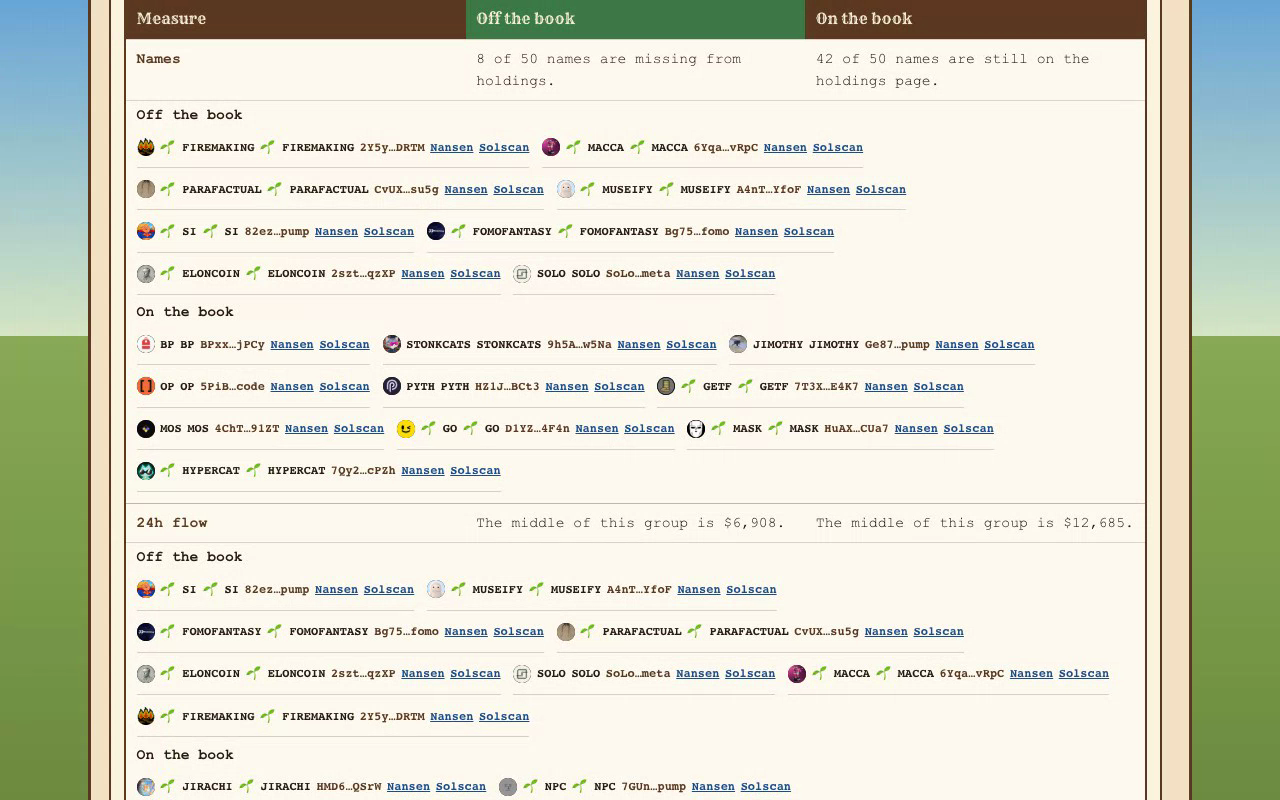
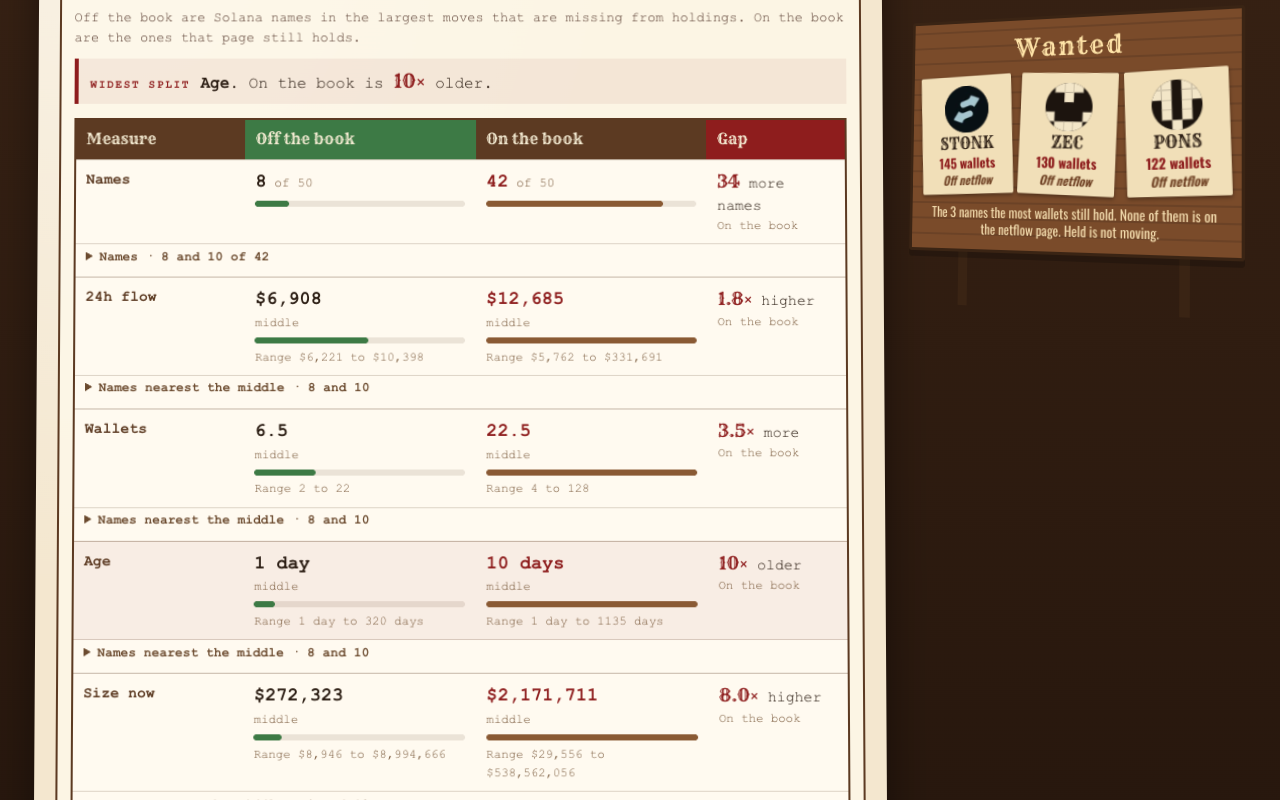
Show the town in the README screenshots.
The stills were from the classic desk. town, tray, trait, table and wanted
now come from the 3D street at 1280x800, and the README shows the first four.

diff --git a/README.md b/README.md
@@ -11,9 +11,17 @@ Two public copies of this app.
 - [https://after-50.onrender.com](https://after-50.onrender.com/) runs the Next server. Simple and Disk cache are in the top bar. The four posts go to the API. The free instance sleeps, then takes about a minute to wake.
 - [https://after-50.surge.sh](https://after-50.surge.sh/) is the static copy. It reads the saved pages. Simple is in the top bar. Disk cache is not, because there is no server.
 
-## Video
+## Screenshots
 
-<img src="recording/wanted.png" alt="Wanted posters for STONK, ZEC, and PONS" width="576" height="360">
+<img src="recording/town.png" alt="Dry Creek: five buildings in 3D on a street at dusk, one per page, each with its first number on a placard, under a banner that reads On the move, off the book, 8 of 50" width="576" height="360">
+
+<img src="recording/tray.png" alt="The tray: Across the pages open on its first trait, stamped 8 of 50, with the wanted board for STONK, ZEC, and PONS pinned beside it" width="576" height="360">
+
+<img src="recording/trait.png" alt="Two traits read and the third open on Cap then, cap now, stamped $287,851,927" width="576" height="360">
+
+<img src="recording/table.png" alt="The comparison table: off the book next to on the book, each row with its middle, a bar, the range, and the gap, led by Widest split: Age, 10x older" width="576" height="360">
+
+## Video
 
 <video src="./recording/room-and-board.mp4" poster="./recording/wanted.png" controls width="576" height="360"></video>
 
